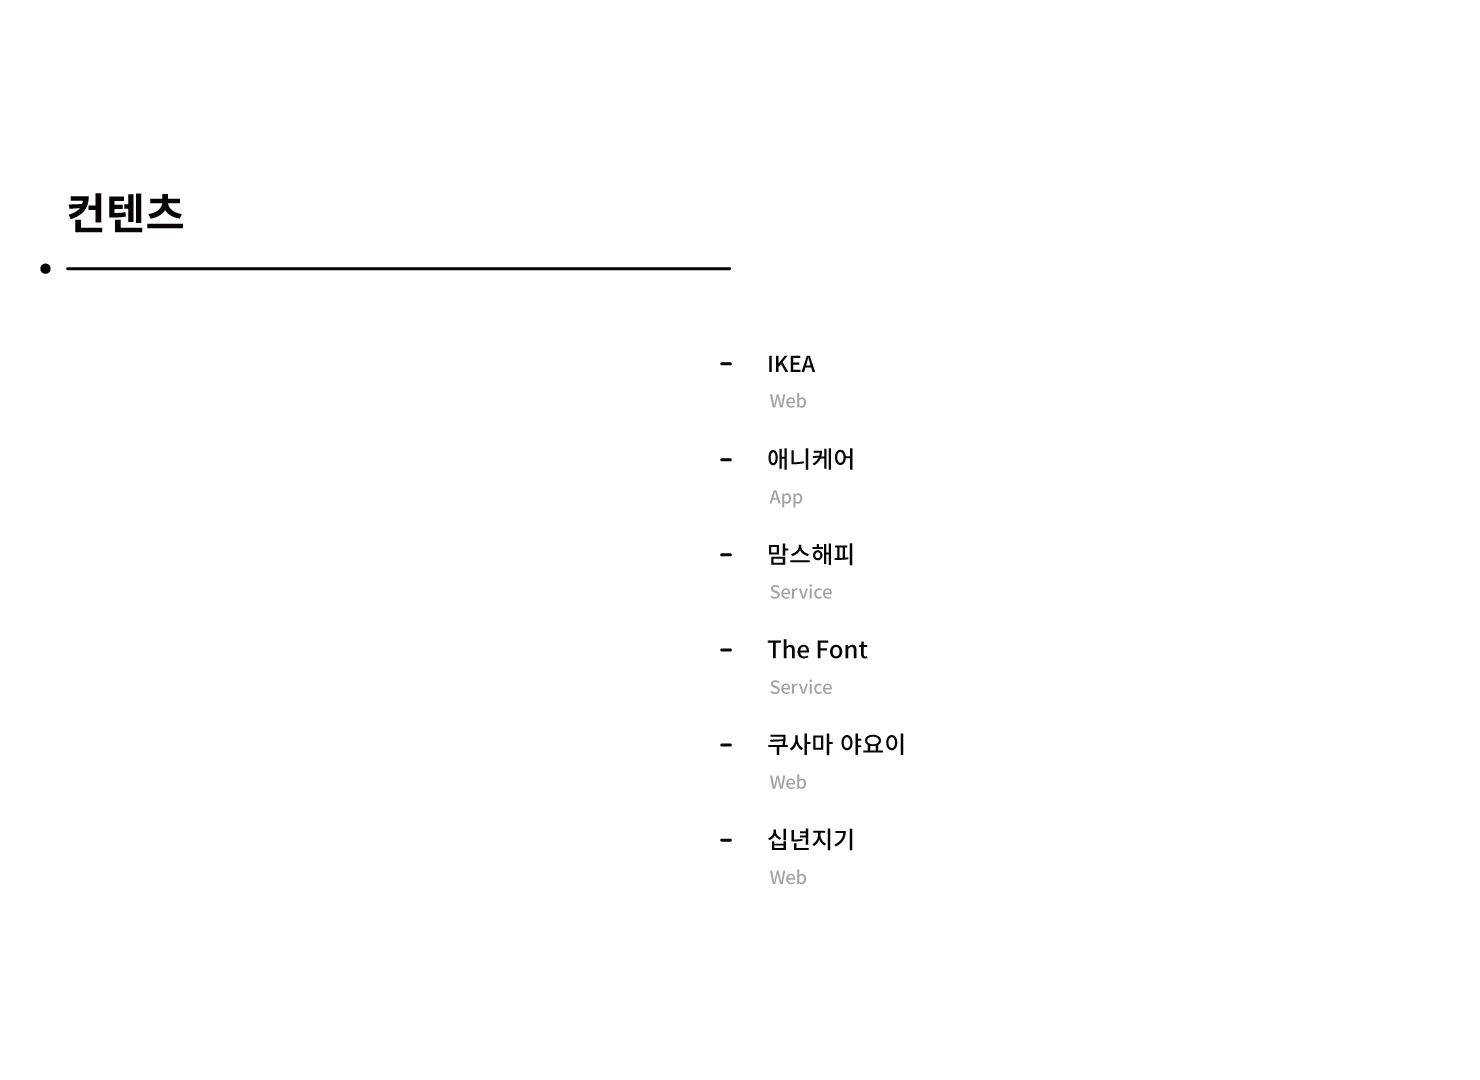
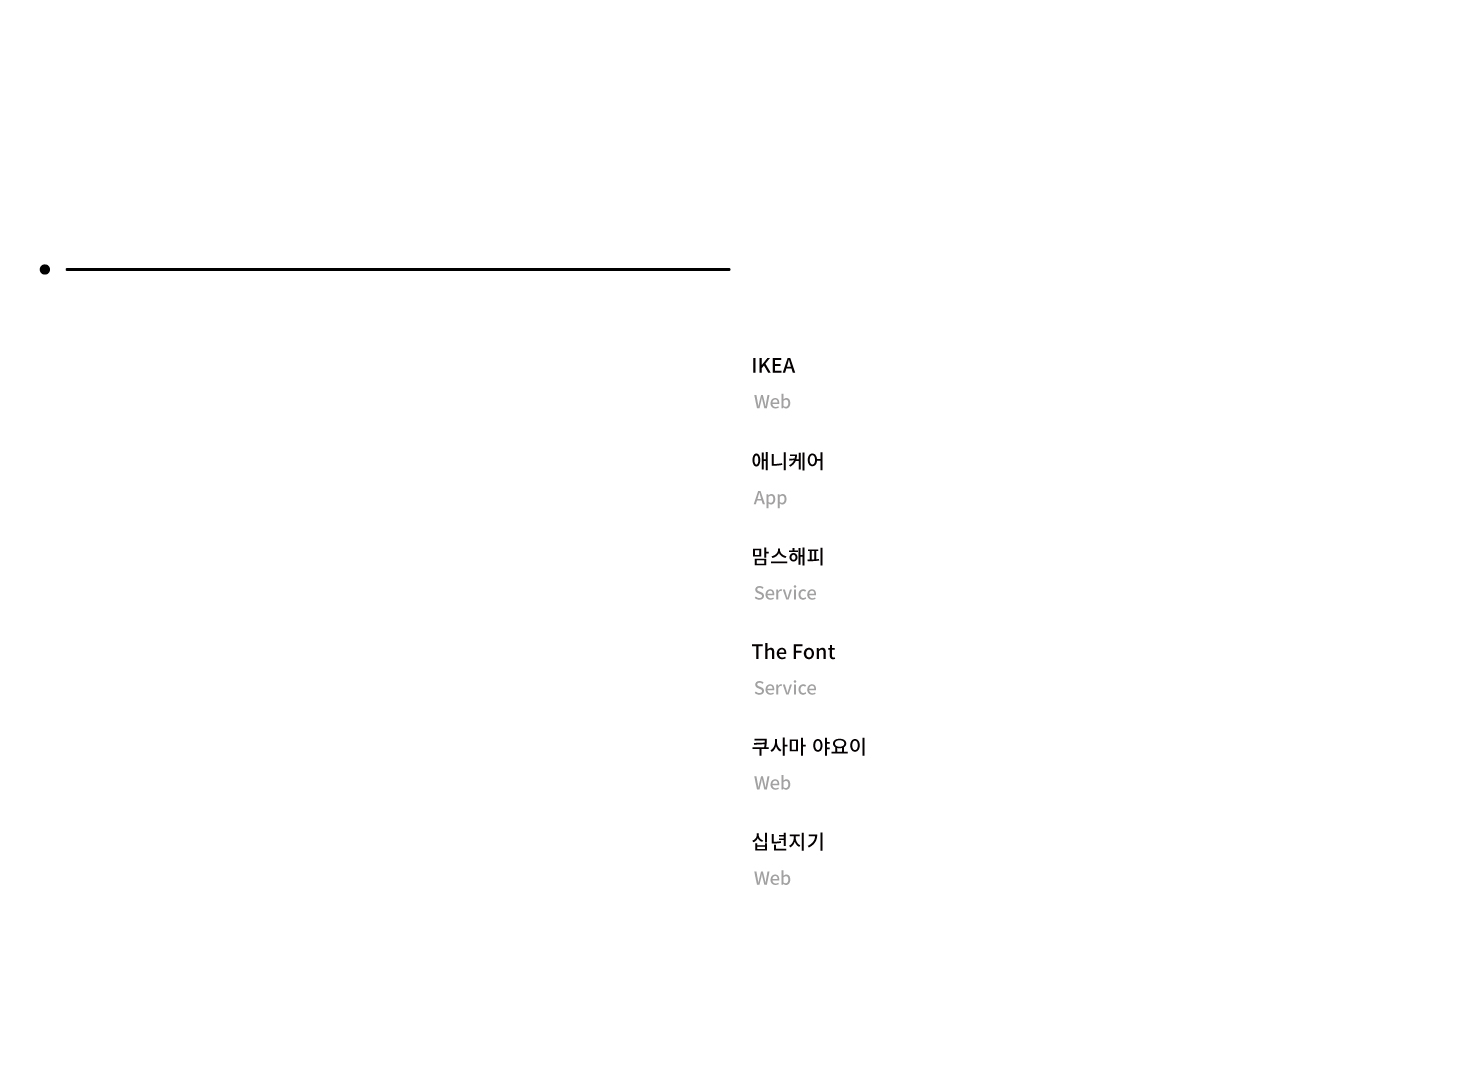
1.0.7 ver.

diff --git a/portfolio.html b/portfolio.html
@@ -18,8 +18,9 @@
     </ul>
   </div>
     <div id="contents">
-      <a><img src="portfolio_001.jpg" alt="Portfolio"></a>
-      <div class="pofolTitleDiv"><a class="pofolTitle">IKEA</a><a class="pofolTitleSub">Web</a></div>
+      <a><img class="imgShadow" src="portfolio_001.jpg" alt="Portfolio"></a>
+      <a><img class="imgShadow" src="contents.jpg" alt="Portfolio"></a>
+      <a><img class="imgShadow" src="content_1.jpg" alt="Portfolio"></a>
       <a><img class="imgShadow" src="IKEA_1.jpg" alt="Portfolio"></a>
       <a><img class="imgShadow" src="IKEA_2.jpg" alt="Portfolio"></a>
       <a><img class="imgShadow" src="IKEA_3.jpg" alt="Portfolio"></a>
@@ -28,7 +29,7 @@
       <a><img class="imgShadow" src="IKEA_6.jpg" alt="Portfolio"></a>
       <a><img class="imgShadow" src="IKEA_7.jpg" alt="Portfolio"></a>
       <a><img class="imgShadow" src="IKEA_8.jpg" alt="Portfolio"></a>
-      <div class="pofolTitleDiv"><a class="pofolTitle">anicare</a><a class="pofolTitleSub">App</a></div>
+      <a><img class="imgShadow" src="content_2.jpg" alt="Portfolio"></a>
       <a><img class="imgShadow" src="anicare_1.jpg" alt="Portfolio"></a>
       <a><img class="imgShadow" src="anicare_2.jpg" alt="Portfolio"></a>
       <a><img class="imgShadow" src="anicare_3.jpg" alt="Portfolio"></a>
@@ -36,13 +37,13 @@
       <a><img class="imgShadow" src="anicare_5.jpg" alt="Portfolio"></a>
       <a><img class="imgShadow" src="anicare_6.jpg" alt="Portfolio"></a>
       <a><img class="imgShadow" src="anicare_7.jpg" alt="Portfolio"></a>
-      <div class="pofolTitleDiv"><a class="pofolTitle">맘스해피</a><a class="pofolTitleSub">Service</a></div>
+      <a><img class="imgShadow" src="content_3.jpg" alt="Portfolio"></a>
       <a><img class="imgShadow" src="portfolio_003.jpg" alt="Portfolio"></a>
       <a><img class="imgShadow" src="portfolio_004.jpg" alt="Portfolio"></a>
       <a><img class="imgShadow" src="portfolio_005.jpg" alt="Portfolio"></a>
       <a><img class="imgShadow" src="portfolio_006.jpg" alt="Portfolio"></a>
       <a><img class="imgShadow" src="portfolio_007.jpg" alt="Portfolio"></a>
-      <div class="pofolTitleDiv"><a class="pofolTitle">The Font</a><a class="pofolTitleSub">Service</a></div>
+      <a><img class="imgShadow" src="content_4.jpg" alt="Portfolio"></a>
       <a><img class="imgShadow" src="portfolio_008.jpg" alt="Portfolio"></a>
       <a><img class="imgShadow" src="portfolio_009.jpg" alt="Portfolio"></a>
       <br>
@@ -51,18 +52,18 @@
       <div id="gifBg"><a><img style="width:480px; padding-top: 70px;" src="TheFont_mobile.gif" alt="The Font"></a></div>
       <a><img class="imgShadow" src="portfolio_010.jpg" alt="Portfolio"></a>
       <a><img class="imgShadow" src="portfolio_011.jpg" alt="Portfolio"></a>
-      <div class="pofolTitleDiv"><a class="pofolTitle">쿠사마 야요이</a><a class="pofolTitleSub">Web</a></div>
+      <a><img class="imgShadow" src="content_5.jpg" alt="Portfolio"></a>
       <a><img class="imgShadow" src="kusama_1.jpg" alt="Portfolio"></a>
       <a><img class="imgShadow" src="kusama_2.jpg" alt="Portfolio"></a>
       <a><img class="imgShadow" src="kusama_3.jpg" alt="Portfolio"></a>
       <a><img class="imgShadow" src="kusama_4.jpg" alt="Portfolio"></a>
       <a><img class="imgShadow" src="kusama_5.jpg" alt="Portfolio"></a>
       <a><img class="imgShadow" src="kusama_6.jpg" alt="Portfolio"></a>
-      <div class="pofolTitleDiv"><a class="pofolTitle">십년지기</a><a class="pofolTitleSub">Web</a></div>
+      <<a><img class="imgShadow" src="content_6.jpg" alt="Portfolio"></a>
       <a><img class="imgShadow" src="portfolio_012.jpg" alt="Portfolio"></a>
       <a><img class="imgShadow" src="portfolio_013.jpg" alt="Portfolio"></a>
       <a><img class="imgShadow" src="portfolio_014.jpg" alt="Portfolio"></a>
-      <a><img src="last_page.jpg" alt="Portfolio"></a>
+      <a><img class="imgShadow" src="last_page.jpg" alt="Portfolio"></a>
       <a><img src="rocket.png" alt="Portfolio"></a>
     </div>
     <a href="#" title="top" id="top">TOP</a>

diff --git a/style.css b/style.css
@@ -116,21 +116,3 @@ body{
   right: 80px;
   text-decoration: none;
 }
-.pofolTitle{
-  font-size: 28pt;
-  font-weight: 800;
-  display: block;
-  width: 1000px;
-  margin-left: auto;
-}
-
-.pofolTitleDiv{
-  margin-left: 40px;
-  margin-top: 280px;
-  margin-bottom: 160px;
-}
-
-.pofolTitleSub{
-  font-weight: 400;
-  color: #797979;
-}
